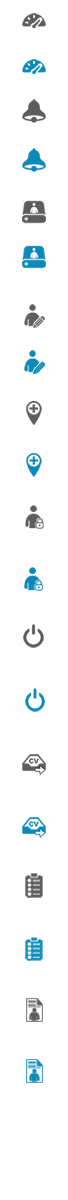
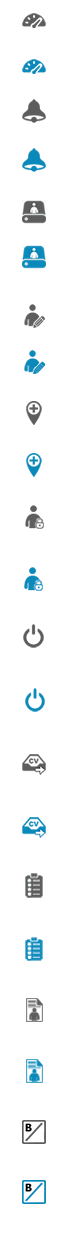
commit changes for white/ black list

Changed region(s): [[0.3235, 0.0, 0.6765, 0.9867]]

diff --git a/public/html/blacklistwhitelist.html b/public/html/blacklistwhitelist.html
@@ -20,30 +20,35 @@
                                 </div>
 
                                 <div class="col-lg-2 col-md-2 col-sm-2 col-xs-2" style="width: 17.666667%;">
-                                    <select class="form-control " name="listType" ng-model="blacklist._info.listType"
-                                            ng-options="status.id as status.label for status in blacklist.listType" required>
+                                    <select class="form-control " name="listType" ng-model="blacklist._info.List"
+                                            ng-options="status.id as status.label for status in blacklist.listType" >
                                         <option value=""> --List Type-- </option>
                                     </select>
                                 </div>
                                 <div class="col-lg-2 col-md-2 col-sm-2 col-xs-2" style="width: 17.666667%;">
-                                    <select class="form-control " name="listType" ng-model="blacklist._info.listType"
-                                            ng-options="status.id as status.label for status in blacklist.listType" required>
+                                    <select class="form-control " name="relation" ng-model="blacklist._info.RelationType"
+                                            ng-options="relation.RelationID as relation.RelationshipTitle for relation in  blacklist.Relations" >
                                         <option value=""> --Relation-- </option>
                                     </select>
+
                                 </div>
                                 <div class="col-lg-1 col-md-1 col-sm-1 col-xs-1" style="margin-top: 1%;">
                                     <span>EZE ID</span>
                                 </div>
-                                <div class="col-lg-3 col-md-3 col-sm-3 col-xs-3" style="width: 21%; padding-left: 0px;">
+                                <div class="col-lg-3 col-md-3 col-sm-3 col-xs-3" style="width: 20%; padding-left: 0px;">
                                     <input id="EZEID" class="form-control" type="text" placeholder="EZEID"  ng-model="blacklist._info.EZEID" />
                                 </div>
-                                <div class="col-lg-1 col-md-1 col-sm-1 col-xs-1" style="margin-top: 1%; width: 5.333333%;">
-                                    <span>Tag</span>
+                                <!--<div class="col-lg-1 col-md-1 col-sm-1 col-xs-1" style="margin-top: 1%; width: 5.333333%;">
+                                     <span>Tag</span>
+
+                                </div>-->
+                                <div class="col-lg-2 col-md-2 col-sm-2 col-xs-2" style="width: 13.666667%;">
+                                    <select class="form-control " name="tags" ng-model="blacklist._info.Tag"
+                                            ng-options="tags.id as tags.label for tags in blacklist.Tags" >
+                                        <option value=""> --Tags-- </option>
+                                    </select>
                                 </div>
-                                <div class="col-lg-1 col-md-1 col-sm-1 col-xs-1">
-                                    <input id="Tag" class="form-control" type="text" placeholder="Tag" ng-model="blacklist._info.Tag" />
-                                </div>
-                                <div class="col-lg-2 col-md-2 col-sm-2 col-xs-2" style="width: 14.666667%;">
+                                <div class="col-lg-2 col-md-2 col-sm-2 col-xs-2" style="width: 14.406667%; padding-right: 0px;">
                                     <button  ng-disabled="!blacklist._info.EZEID || !blacklist._info.Tag" ng-click="blacklist.addToBlackWhiteList()" class="btn btn-block btn-primary pull-left" type="button">Add</button>
                                 </div>
                             </div>

diff --git a/public/html/home.html b/public/html/home.html
@@ -61,7 +61,7 @@
                             <textarea class="form-control fixTextArea emptyBox" name="sendMessage" ng-model="search.SendMessage" placeholder="Type Message here" required></textarea>
                         </div>
                         <div class="form-group">
-                            <input type="submit" ng-disabled="!search.sendMessage" class="btn btn-primary" value="Send" />
+                            <input type="submit" ng-disabled="!search.SendMessage" class="btn btn-primary" value="Send" />
                             <input type="reset" class="btn btn-primary marR10px cancelEnq" ng-click="search.closeSendMessageForm()" value="Close" />
                         </div>
                     </form>
@@ -92,8 +92,8 @@
             <div class="Popup_window form_style map_popup_iconActions" id="Reservation_popup">
                 <div class="window_page Maping_popup">
                     <span class="closelink" ng-click="search.closeReservationForm()">X</span>
-                    <span style="margin-top:-2px;float:right; border:1px solid #000000;background:#FAA9A3;color:#000000;" ng-show="(reservationForm.dateTime.$touched && !search.ReservationDateTime.length) || (reservationForm.reservationMessage.$touched && !search.ReservationMessage.length)">
-                        <span ng-show="reservationForm.dateTime.$error.required || reservationForm.reservationMessage.$error.required ">* Mandatory</span>
+                    <span style="margin-top:-2px;float:right; border:1px solid #000000;background:#FAA9A3;color:#000000;">
+                        <span>Mandatory</span>
                     </span>
                     <form name="reservationForm" ng-submit="reservationForm.$valid && search.sendReservation(_userInfo.Type==1 ? '6' : '3')" novalidate>
                         <h3 ng-show="search.mInfo.IDTypeID==1" class="marB15px">Appointment</h3>
@@ -560,11 +560,9 @@
                                         <div class="row row-margin-clearfix">
                                             <div class="col-lg-2 col-md-2 col-sm-2 col-xs-2 col-lg-offset-2 col-md-offset-2 col-sm-offset-2 col-xs-offset-2" ng-click="search.openSendMessageForm()"  title="Message">
                                                 <button  class="info-icon-btn noti-icon">Message</button>
-
                                             </div>
                                             <div class="col-lg-2 col-md-2 col-sm-2 col-xs-2" title="Appointment" ng-click="search.openReservationForm()">
                                                 <button class="info-icon-btn appoinment-icon" >Appointment</button>
-
                                             </div>
                                         </div>
                                     </div>

diff --git a/public/js/blacklistwhitelist.js b/public/js/blacklistwhitelist.js
@@ -40,10 +40,20 @@ angular.module('ezeidApp').controller('BlackListWhiteListController', function($
 
     $scope.$watch('_userInfo.IsAuthenticate', function () {
         if ($rootScope._userInfo.IsAuthenticate == true) {
-            getBlackWhiteListInfo();
+            //getBlackWhiteListInfo();
         } else {
             window.location.href = "index.html";
         }
+    });
+
+    $http({ method: 'get', url: GURL + 'ewmGetRelationType?LangID=1' }).success(function (data) {
+
+       /* var _obj = { RelationID: 0, RelationshipTitle: '--Relation--'};
+        data.splice(0, 0, _obj);
+        blacklist._info.RelationID = _obj.RelationID;*/
+
+        blacklist.Relations = data;
+
     });
 
     //Add EZE Id to black/white list
@@ -59,12 +69,15 @@ angular.module('ezeidApp').controller('BlackListWhiteListController', function($
                 }
                 else
                 {
-                    console.log("else");
-                    //api call ...
-
+                    blacklist._info.Token = $rootScope._userInfo.Token;
+                    console.log(blacklist._info);
+                    $http({ method: 'post', url: GURL + 'ewtSaveWhiteBlackList', data: blacklist._info }).success(function (data) {
+                        console.log(data);
+                    });
                 }
              });
     };
 
-    blacklist.listType = [{ id: 0, label: "Black List" }, { id: 1, label: "White List" }];
+    blacklist.listType = [{ id: 2, label: "Black List" }, { id: 1, label: "White List" }];
+    blacklist.Tags = [{ id: 1, label: "ID" }, { id: 2, label: "PP" }, { id: 3, label: "DL" }, { id: 4, label: "D1" }, { id: 5, label: "D2" }, { id: 6, label: "CV" }];
 });

diff --git a/public/js/App.js b/public/js/App.js
@@ -2066,7 +2066,6 @@
         };
     });
 
-
     ezeid.controller('HistoryController', function ($scope, $rootScope, $http, Notification, $filter, $interval) {
         var msgSen = this;
         var _pageValue = 1;
@@ -2123,12 +2122,14 @@
          * Function for converting UTC time from server to LOCAL timezone
         */
         var convertTimeToLocal = function(timeFromServer,dateFormat){
-            if(!dateFormat){
+           if(!dateFormat){
                 dateFormat = 'DD-MMM-YYYY hh:mm A';
             }
             var x = new Date(timeFromServer);
             var mom1 = moment(x);
+
             return mom1.add((mom1.utcOffset()),'m').format(dateFormat);
+
         };
         
         /**
@@ -2141,7 +2142,6 @@
             return moment(localTime).utc().format(dateFormat);
         };
         
-        
         function LoadHistory(_pageValue){
 
             $http({ method: 'get', url: GURL + 'ewtGetAccessHistory?TokenNo=' + $rootScope._userInfo.Token + '&Page='+_pageValue }).success(function (data) {
@@ -2149,9 +2149,11 @@
                 if (data != 'null') {
                     for (var i = 0; i < data.length; i++) {
                         data[i].AccessDate = convertTimeToLocal(data[i].AccessDate,'DD-MMM-YYYY hh:mm A');
-                        
                         msgSen.msgs.push(data[i]);
                         showPaging = data[0]['NextPage'];
+
+
+
                     }
                     if(showPaging == 'Y')
                     {

diff --git a/public/css/common.css b/public/css/common.css
@@ -286,8 +286,10 @@ margin-bottom: 10px;
 }
 
 .info-icon-btn {
-    width: 67px;
-    height: 52px;
+   /* width: 67px;
+    height: 52px;*/
+    width: 48px;
+    height: 40px;
     display: inline-block;
     padding: 0px;
     margin: 0 10px;
@@ -307,35 +309,35 @@ margin-bottom: 10px;
 }
 
 .info-icon-btn.noti-icon {
-    background-position: -250px;
+    background-position: 0px;
 }
 
 .info-icon-btn.appoinment-icon{
-    background-position: -440px;
+    background-position: -48px;
 }
 
 .info-icon-btn.direction-icon{
-    background-position: -310px;
+    background-position: -387px;
 }
 
 .info-icon-btn.sales-icon{
-   background-position: -130px;
+    background-position: -98px;
 }
 
 .info-icon-btn.reservation-icon{
-    background-position: -190px;
+    background-position: -195px;
 }
 
 .info-icon-btn.support-icon{
-    background-position: -10px;
+    background-position: -242px;
 }
 
 .info-icon-btn.sendcv-icon{
-    background-position: -70px;
+    background-position: -337px;
 }
 
 .info-icon-btn.home-icon{
-    background-position: -375px;
+    background-position: -146px;
 }
 
 /**

diff --git a/public/html/index.html b/public/html/index.html
@@ -56,8 +56,13 @@
     <script src="js/core-min.js"></script>
     <script src="js/bootstrap.min.js"></script>
     <script src="js/aes.js"></script>
+
+
     <!--<script src="js/moment-with-locales.js"></script>-->
+
     <script src="js/moment.min.js"></script>
+
+
     <script src="js/jquery.datetimepicker.js"></script>
     <script src="js/webcam.js"></script>
     <script src="js/angular-ui-notification.min.js"></script>
